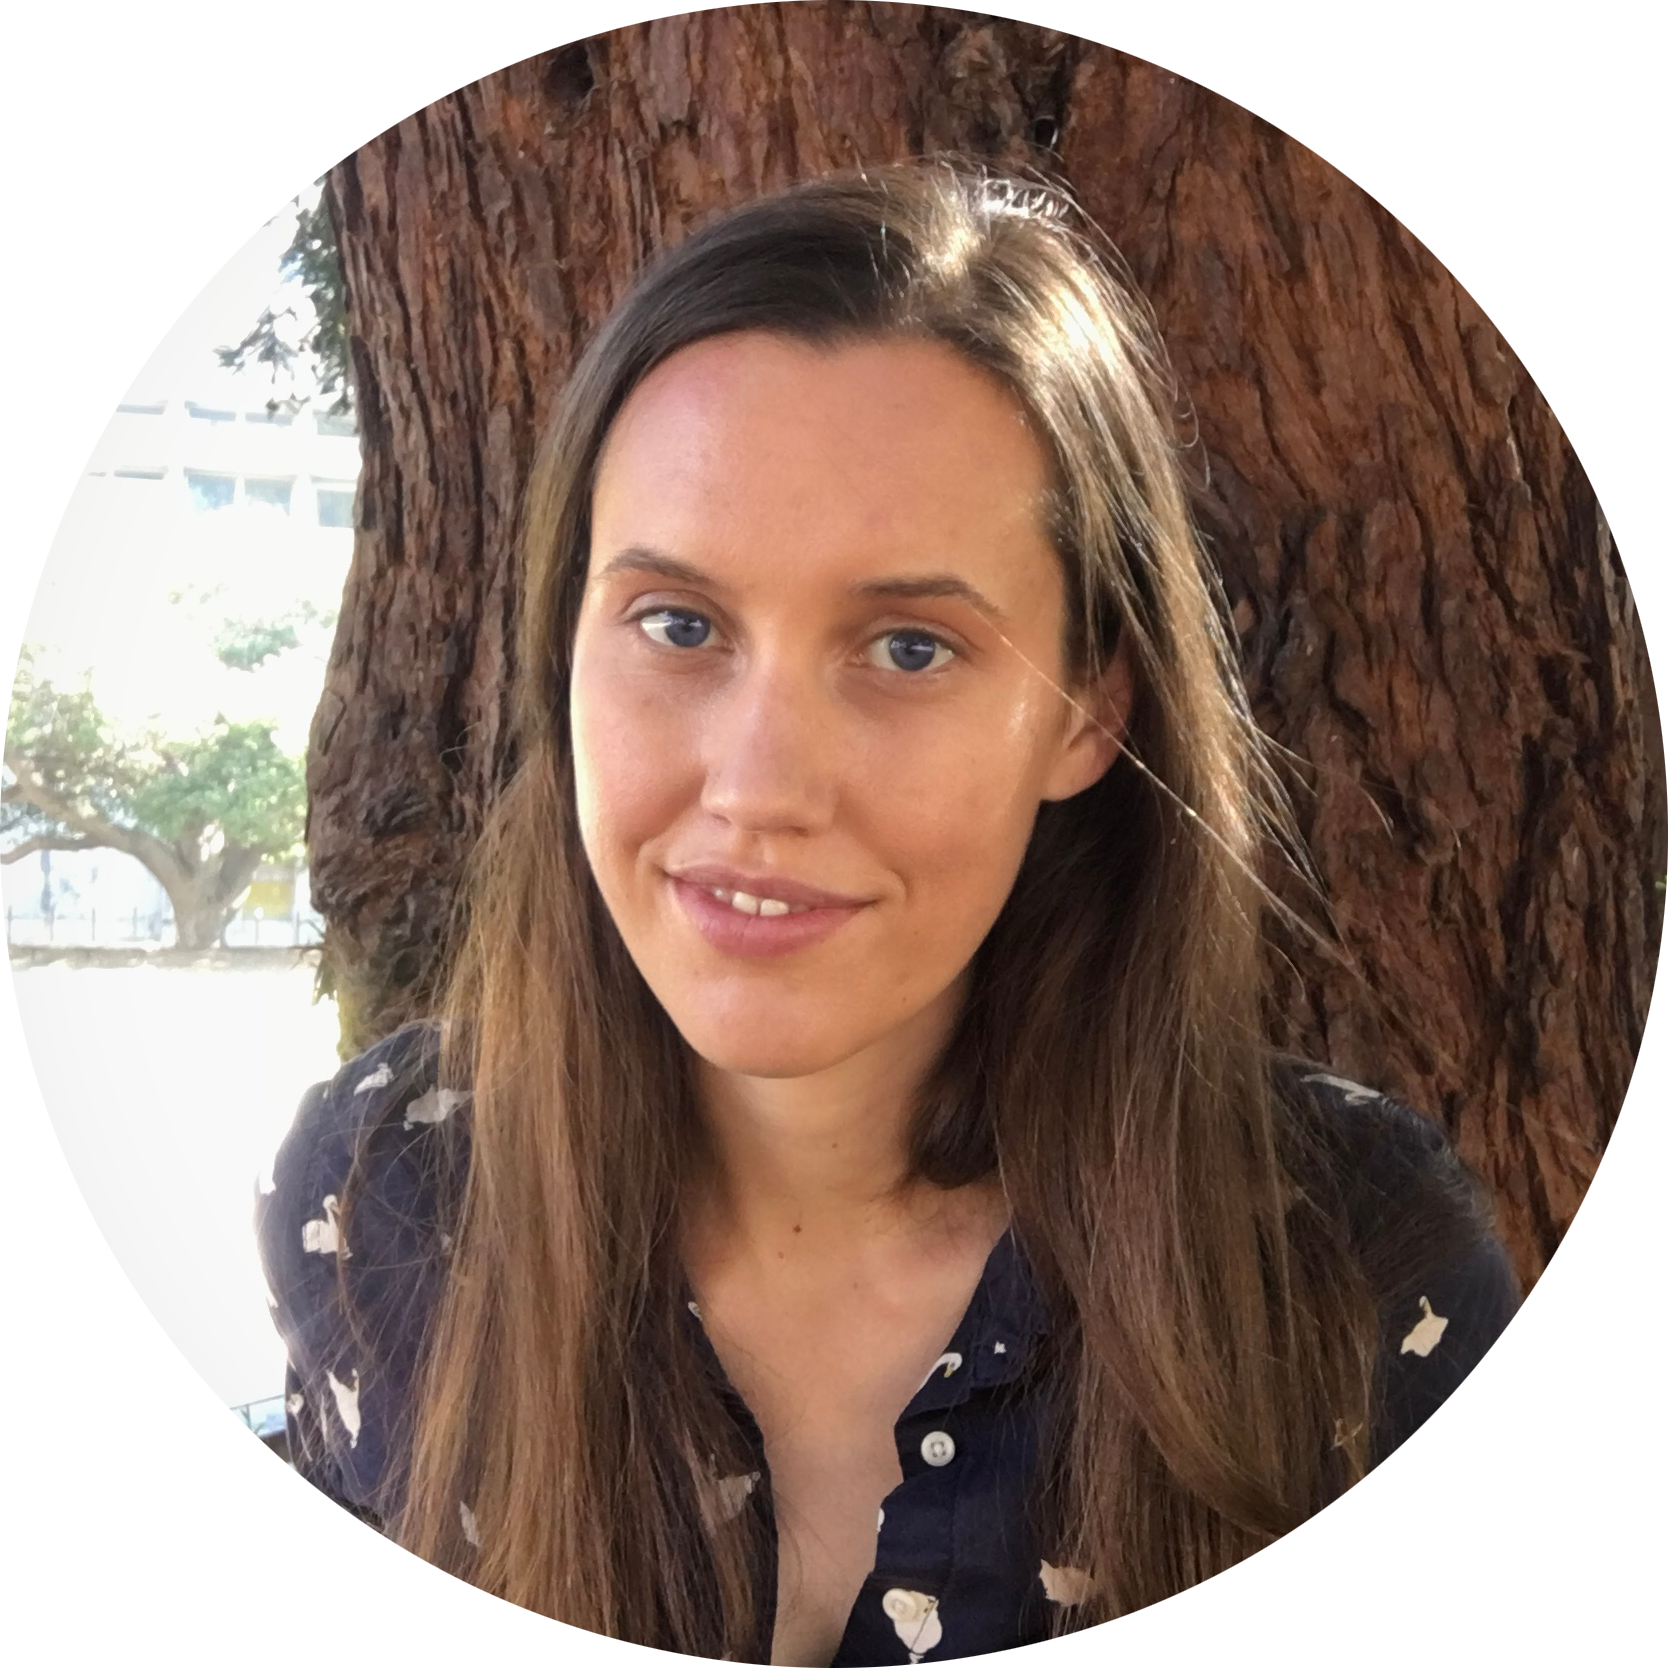
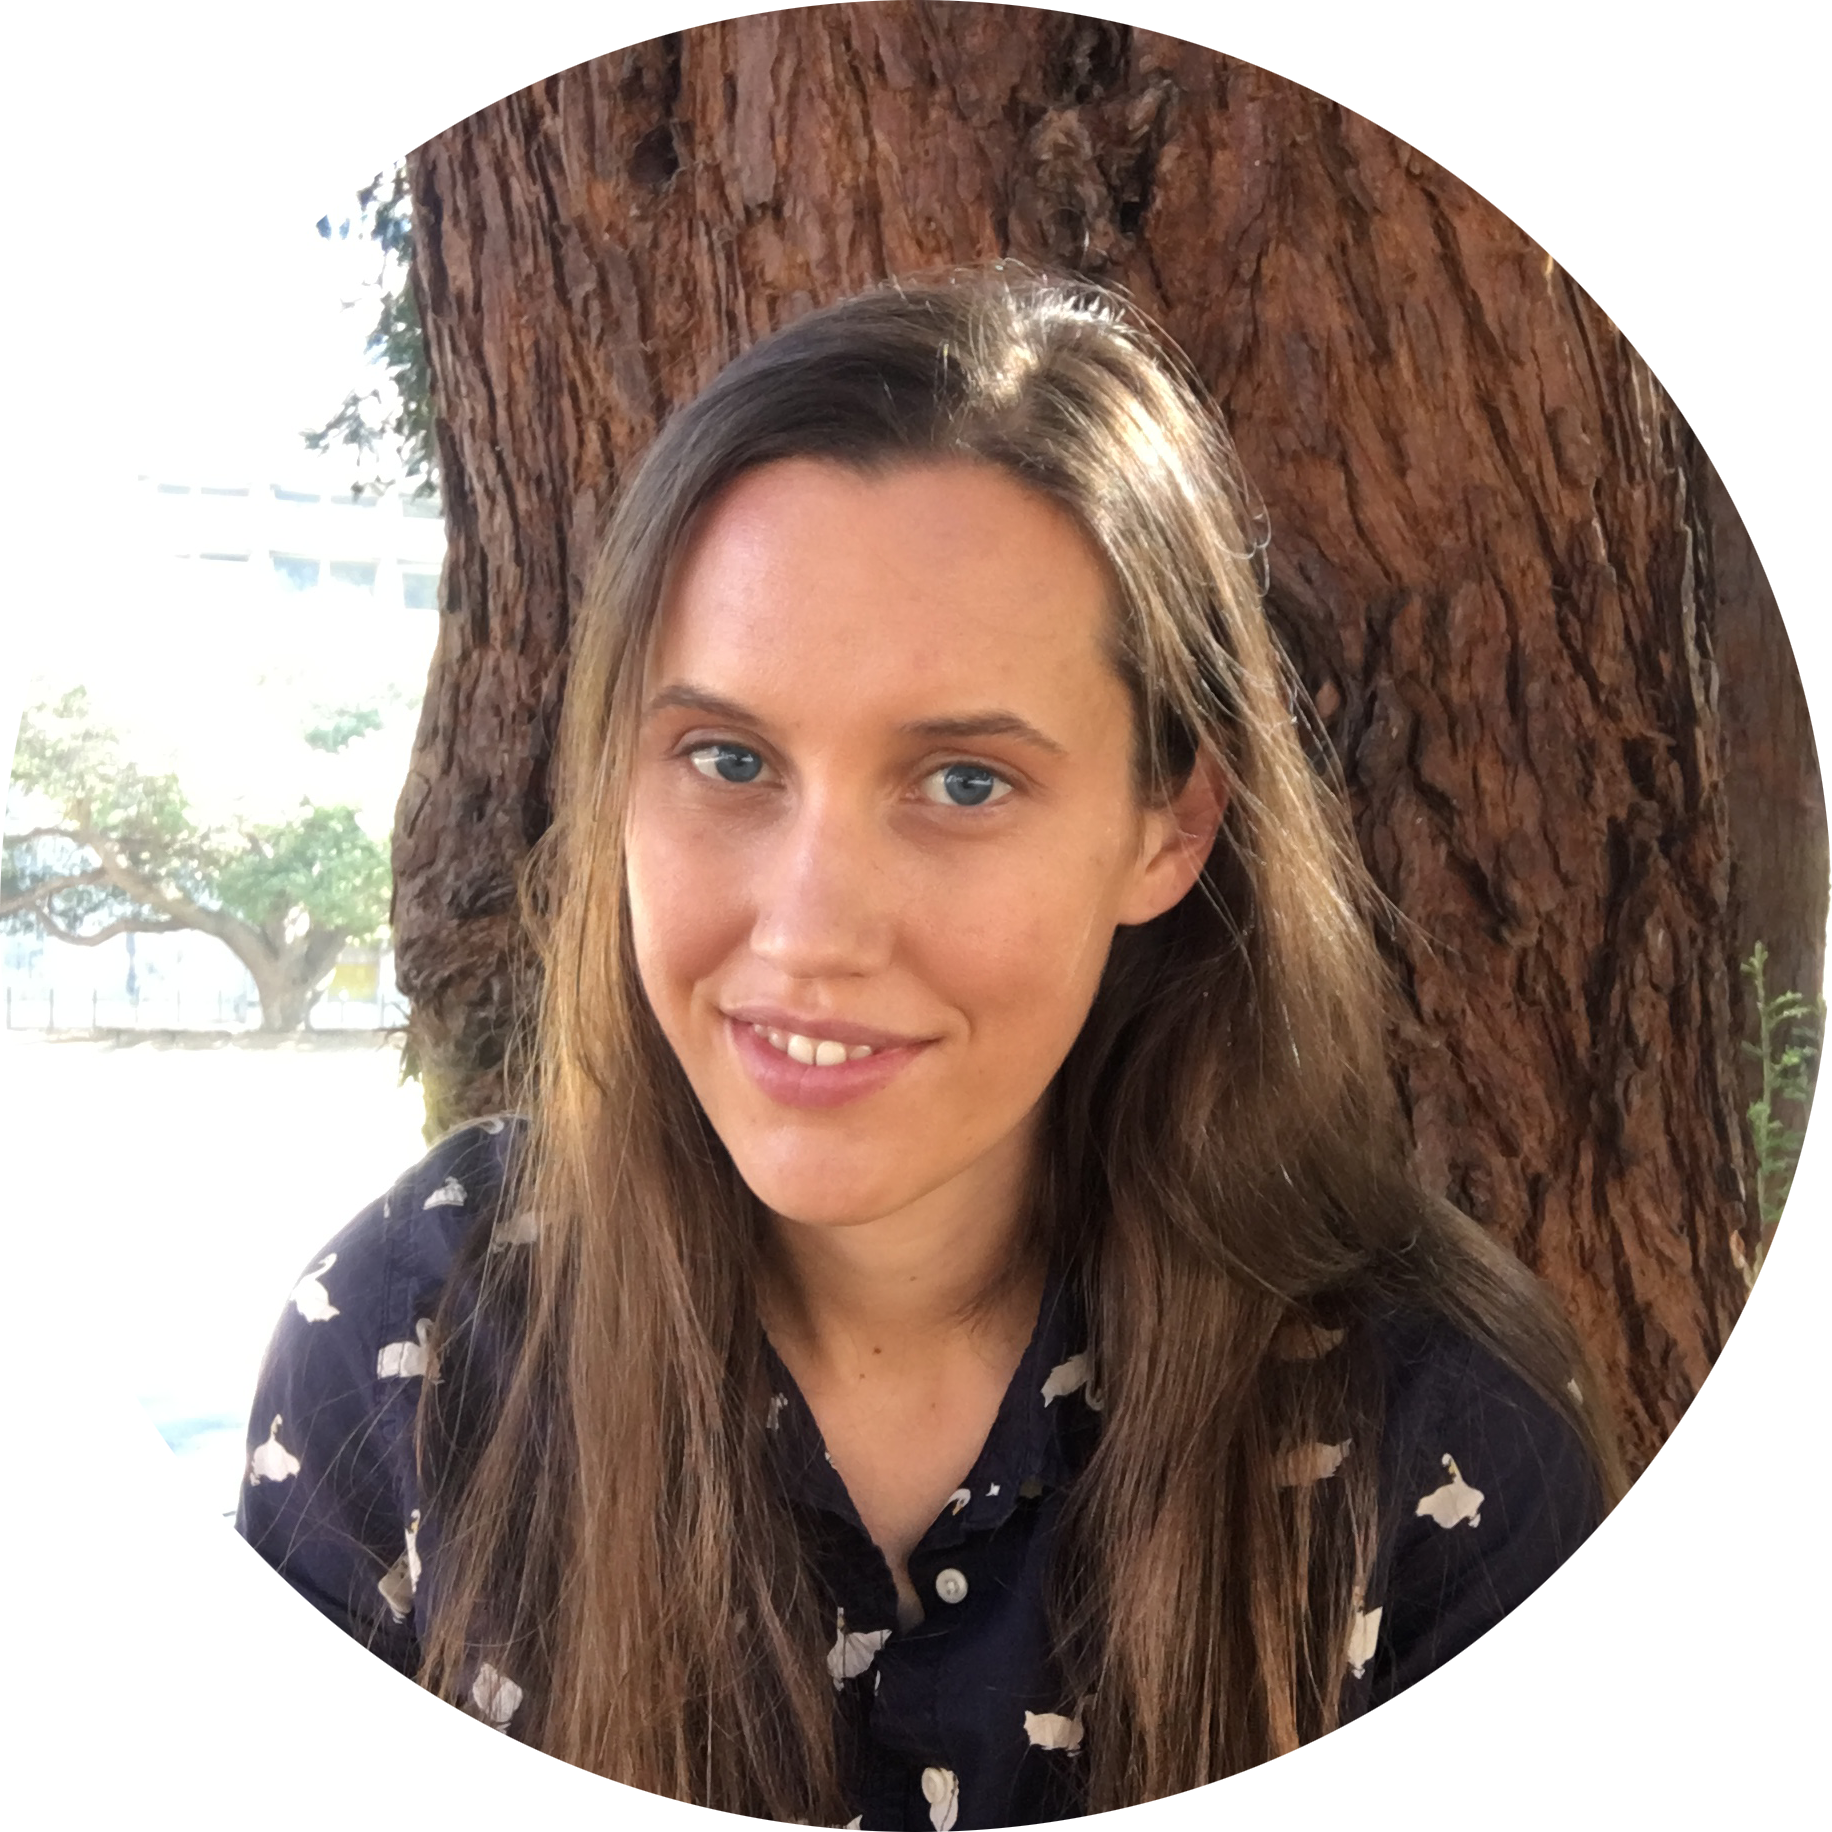
.

diff --git a/sass/researcher.min.css b/sass/researcher.min.css
@@ -1,1 +1,1 @@
-#content a,.nav-link{color:#dc3545;text-decoration:none}#content a:hover,.nav-link:hover{color:#dc3545;text-decoration:underline}#footer a,.navbar-brand{color:inherit;text-decoration:none}#footer a:hover,.navbar-brand:hover{color:inherit;text-decoration:underline}#content table tr th,#content table tr td{border:1px solid #ccc;padding:6px 12px;text-align:left}*{font-family:inconsolata;line-height:normal}.container{max-width:750px}.navbar-brand{font-size:2rem}#content blockquote{border-left:4px solid;font-style:italic;margin:16px 0;padding:8px}#content blockquote p{margin:0}#content code{color:#28a745}#content h1,#content h2,#content h3,#content h4,#content h5,#content h6{font-size:medium;font-weight:700;line-height:normal;margin:1.2rem 0 .8rem}#content h1{font-size:1.8rem}#content h2{font-size:1.6rem}#content h3{font-size:1.4rem}#content h4{font-size:1.2rem}#content img{display:block;margin:16px auto}#content div>ol{padding-left:0}#content ol{counter-reset:list;list-style:none}#content ol>li{margin:4px 0}#content ol>li:before{content:"[" counter(list,decimal)"] ";counter-increment:list}#content pre code{color:inherit}#content div>ul{padding-left:0}#content ul{list-style:inside}#content ul>li{margin:4px 0}#content table{margin:16px auto;width:100%}#content table tr{background-color:#fff;border:1px solid #ccc}#content table tr th{font-weight:700}#content table tr:nth-child(2n){background-color:#f8f8f8}#content .avatar>img{border-radius:50%;float:right;margin:-8px 0 0 16px;height:190px;width:190px}#content .highlight{margin:16px auto}#content .highlight>pre{padding:8px}
+#content a,.nav-link{color:#dc3545;text-decoration:none}#content a:hover,.nav-link:hover{color:#dc3545;text-decoration:underline}#footer a,.navbar-brand{color:inherit;text-decoration:none}#footer a:hover,.navbar-brand:hover{color:inherit;text-decoration:underline}#content table tr th,#content table tr td{border:1px solid #ccc;padding:6px 12px;text-align:left}*{font-family:inconsolata;line-height:normal}.container{max-width:750px}.navbar-brand{font-size:2rem}#content blockquote{border-left:4px solid;font-style:italic;margin:16px 0;padding:8px}#content blockquote p{margin:0}#content code{color:#28a745}#content h1,#content h2,#content h3,#content h4,#content h5,#content h6{font-size:medium;font-weight:700;line-height:normal;margin:1.2rem 0 .8rem}#content h1{font-size:1.8rem}#content h2{font-size:1.6rem}#content h3{font-size:1.4rem}#content h4{font-size:1.2rem}#content img{display:block;margin:16px auto}#content div>ol{padding-left:0}#content ol{counter-reset:list;list-style:none}#content ol>li{margin:4px 0}#content ol>li:before{content:"[" counter(list,decimal)"] ";counter-increment:list}#content pre code{color:inherit}#content div>ul{padding-left:0}#content ul{list-style:inside}#content ul>li{margin:4px 0}#content table{margin:16px auto;width:100%}#content table tr{background-color:#fff;border:1px solid #ccc}#content table tr th{font-weight:700}#content table tr:nth-child(2n){background-color:#f8f8f8}#content .avatar>img{border-radius:50%;float:right;margin:-8px 0 0 16px;height:150px;width:150px}#content .highlight{margin:16px auto}#content .highlight>pre{padding:8px}
